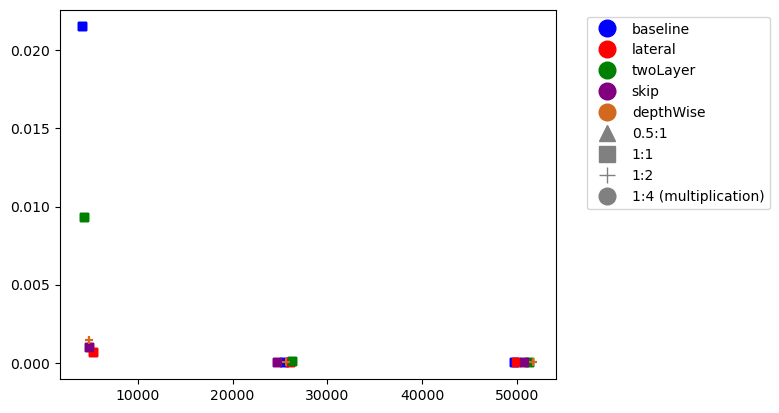
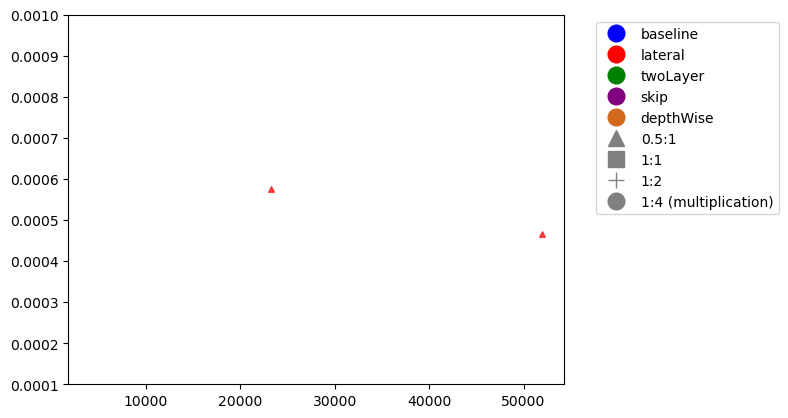
plot model performance

Changed region(s): [[0.0, 0.0291, 0.9859, 0.9879], [0.3389, 0.4358, 0.3697, 0.4649]]

diff --git a/plots/loss-paras.py b/plots/loss-paras.py
@@ -233,6 +233,7 @@ def matchMarker(multiplier):
 fig, ax = plt.subplots()
 for mult in [0.5, 1, 2]:
     for modelName in ["baseline", "lateral", "twoLayer", "skip", "depthWise"]:
+    #for modelName in ["lateral"]:
         for param in [1, 2, 3]:
             mult_tmp = f(mult)
             if modelName == "baseline":
@@ -262,11 +263,11 @@ for mult in [0.5, 1, 2]:
             else:
                 marker = matchMarker(mult)
             col = matchColor(modelName)
-            ax.scatter(parameters, loss, marker=marker, color=col)
+            ax.scatter(parameters, loss, marker=marker, color=col, s=16, alpha=0.7)
             pathBack = f'../../../../../../plots'
             os.chdir(pathBack)
 
-
+#ax.set_yscale('log')
 # add legend
 # modelName
 blue_line = mlines.Line2D([], [], color='blue', marker='o',
@@ -292,7 +293,7 @@ mult4 = mlines.Line2D([], [], color='gray', marker='o',
 
 plt.legend(handles=[blue_line, red_line, green_line, purple_line
                     , chocolate_line, mult1, mult2, mult3, mult4], bbox_to_anchor=(1.05, 1), loc = 2)
-
+plt.ylim([0.0001, 0.001])
 name = f'lossToParas-{mode}-{horizon}'
 fig.savefig(name, bbox_inches="tight")
 

diff --git a/test3.py b/test3.py
@@ -27,7 +27,7 @@ for mp in range(3):
             col = checkColor(name)
             marker = checkShape(mp)
             loss = (mp + paras) * np.random.randint(1, 10)
-            ax.scatter(paras, loss, marker = marker, c=col)
+            ax.scatter(paras, loss, marker = marker, c=col, s=16, alpha=0.6)
             # if paras == 2 and name == "baseline":
             #     ax.scatter(paras, loss, marker=marker, c=col, label=mp)
 
@@ -38,9 +38,9 @@ blue_line = mlines.Line2D([], [], color='blue', marker='^',
 red_line = mlines.Line2D([], [], color='red', marker='^',
                           markersize=12, label='baseline', linestyle="none")
 plt.legend(handles=[blue_line, red_line], bbox_to_anchor=(1.05, 1), loc = 2)
-
-
-fig.savefig("test", bbox_inches="tight")
+plt.ylim([0.0001, 0.005])
+plt.show()
+#fig.savefig("test", bbox_inches="tight")
 
 
 
